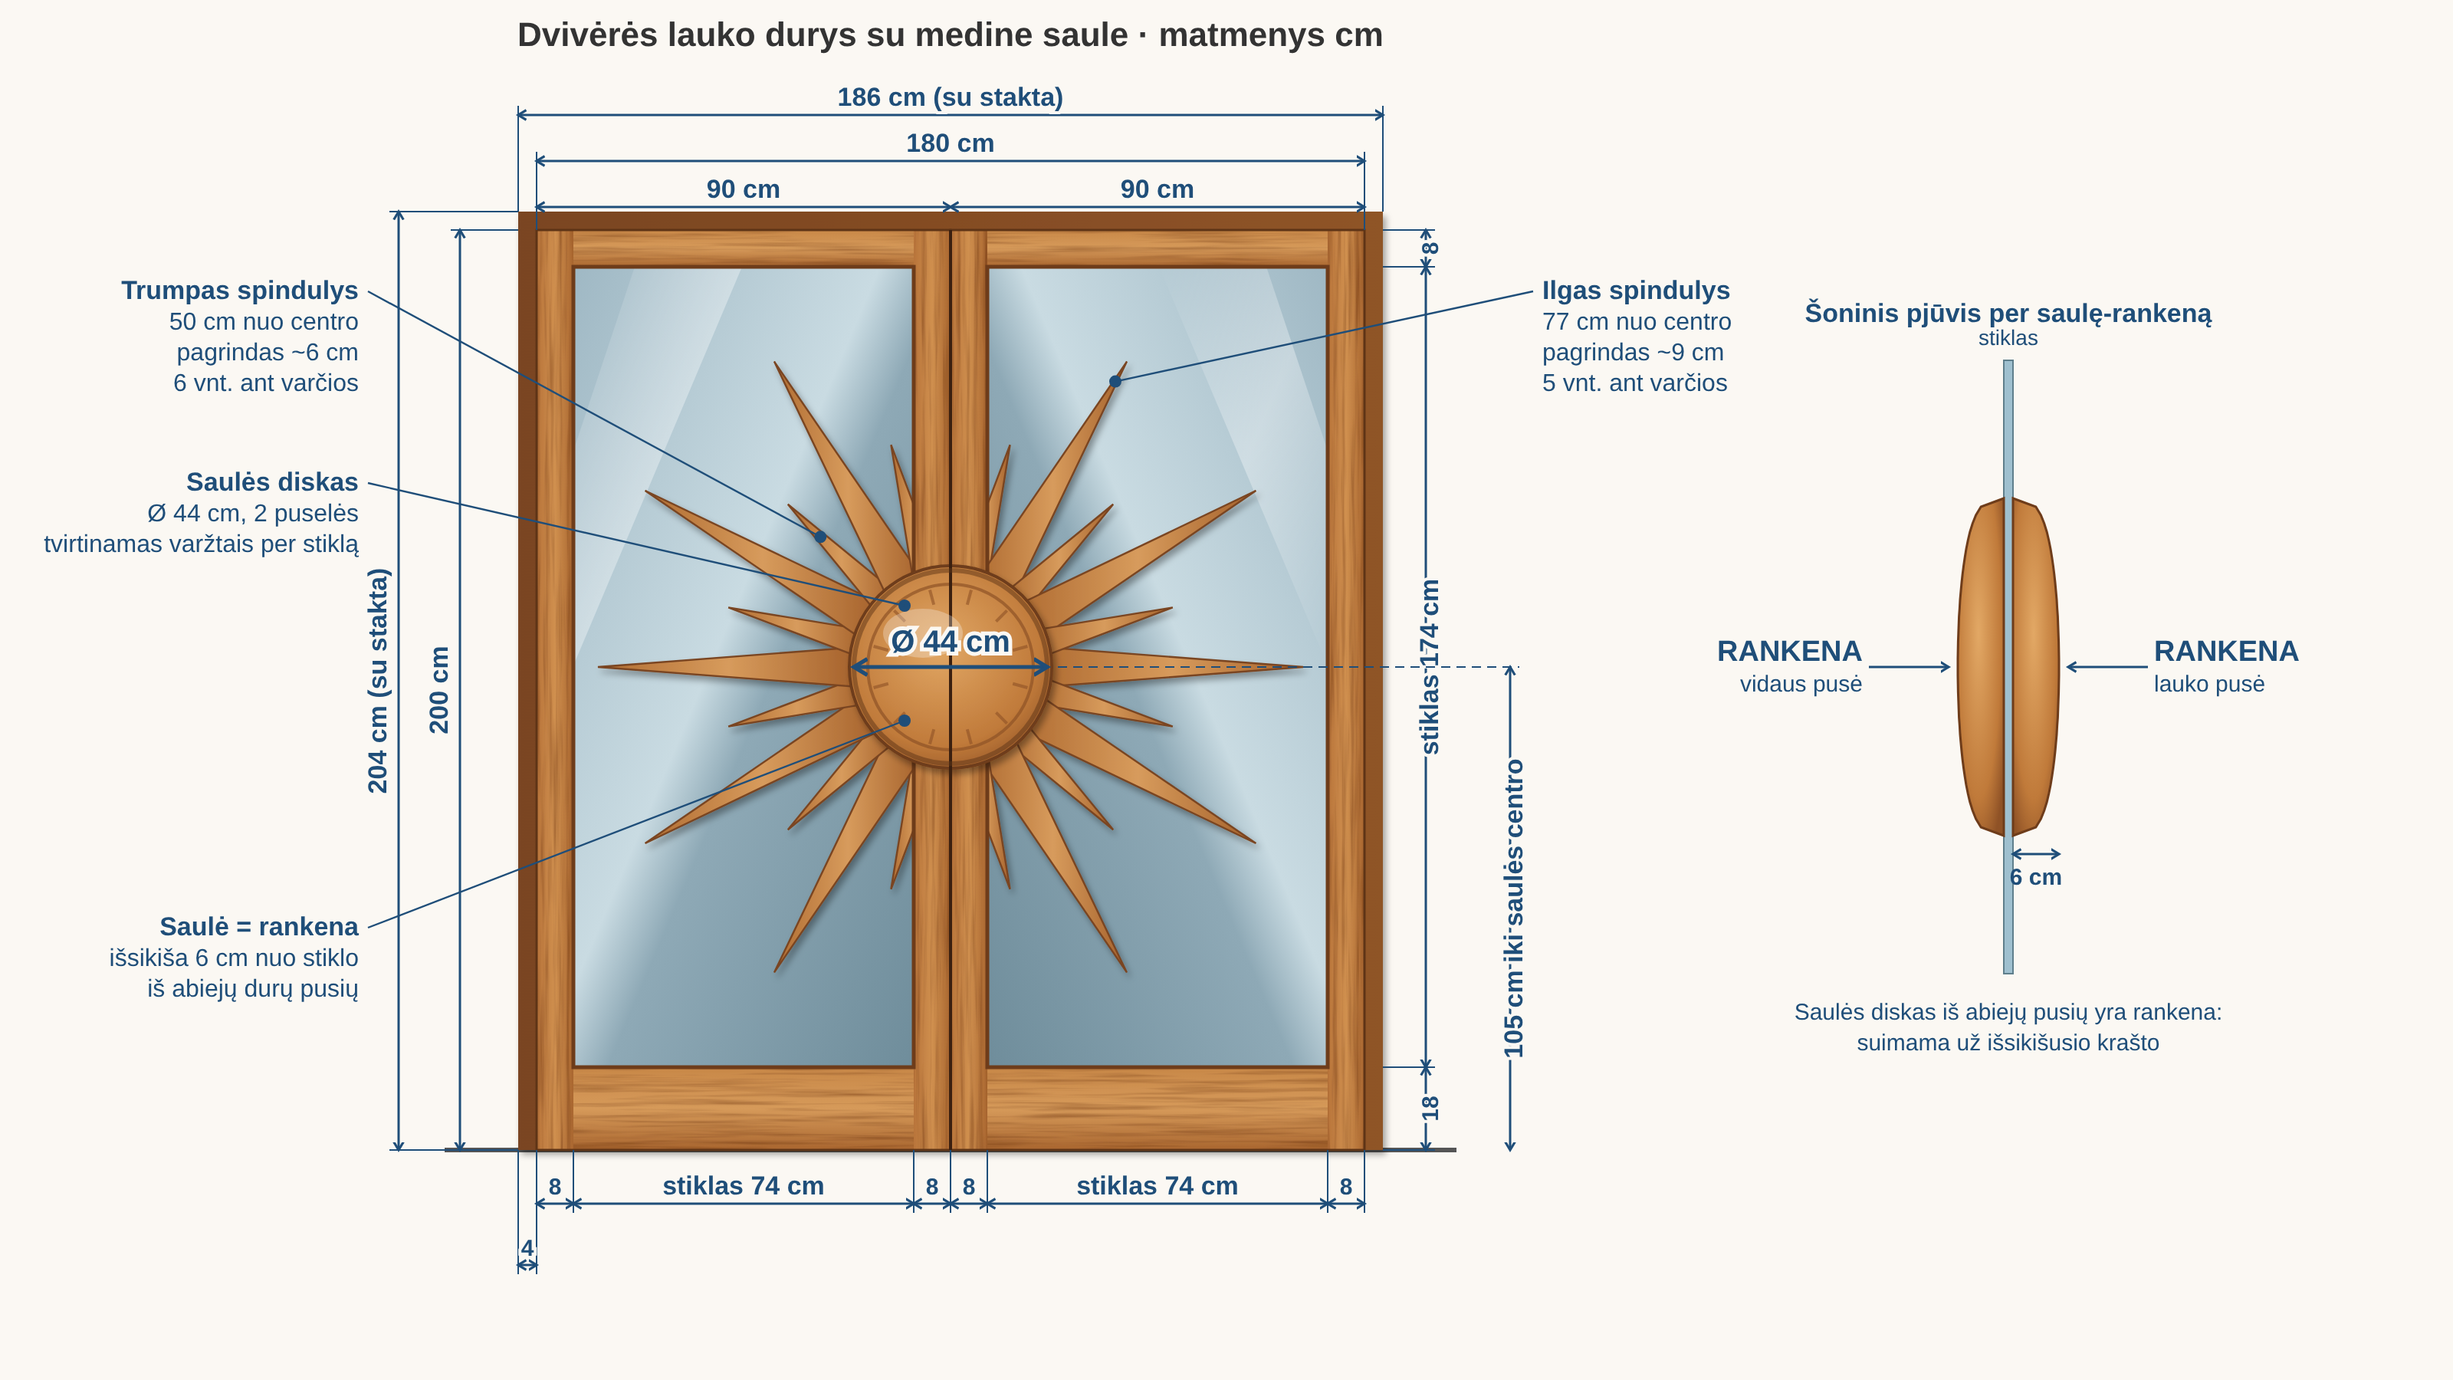
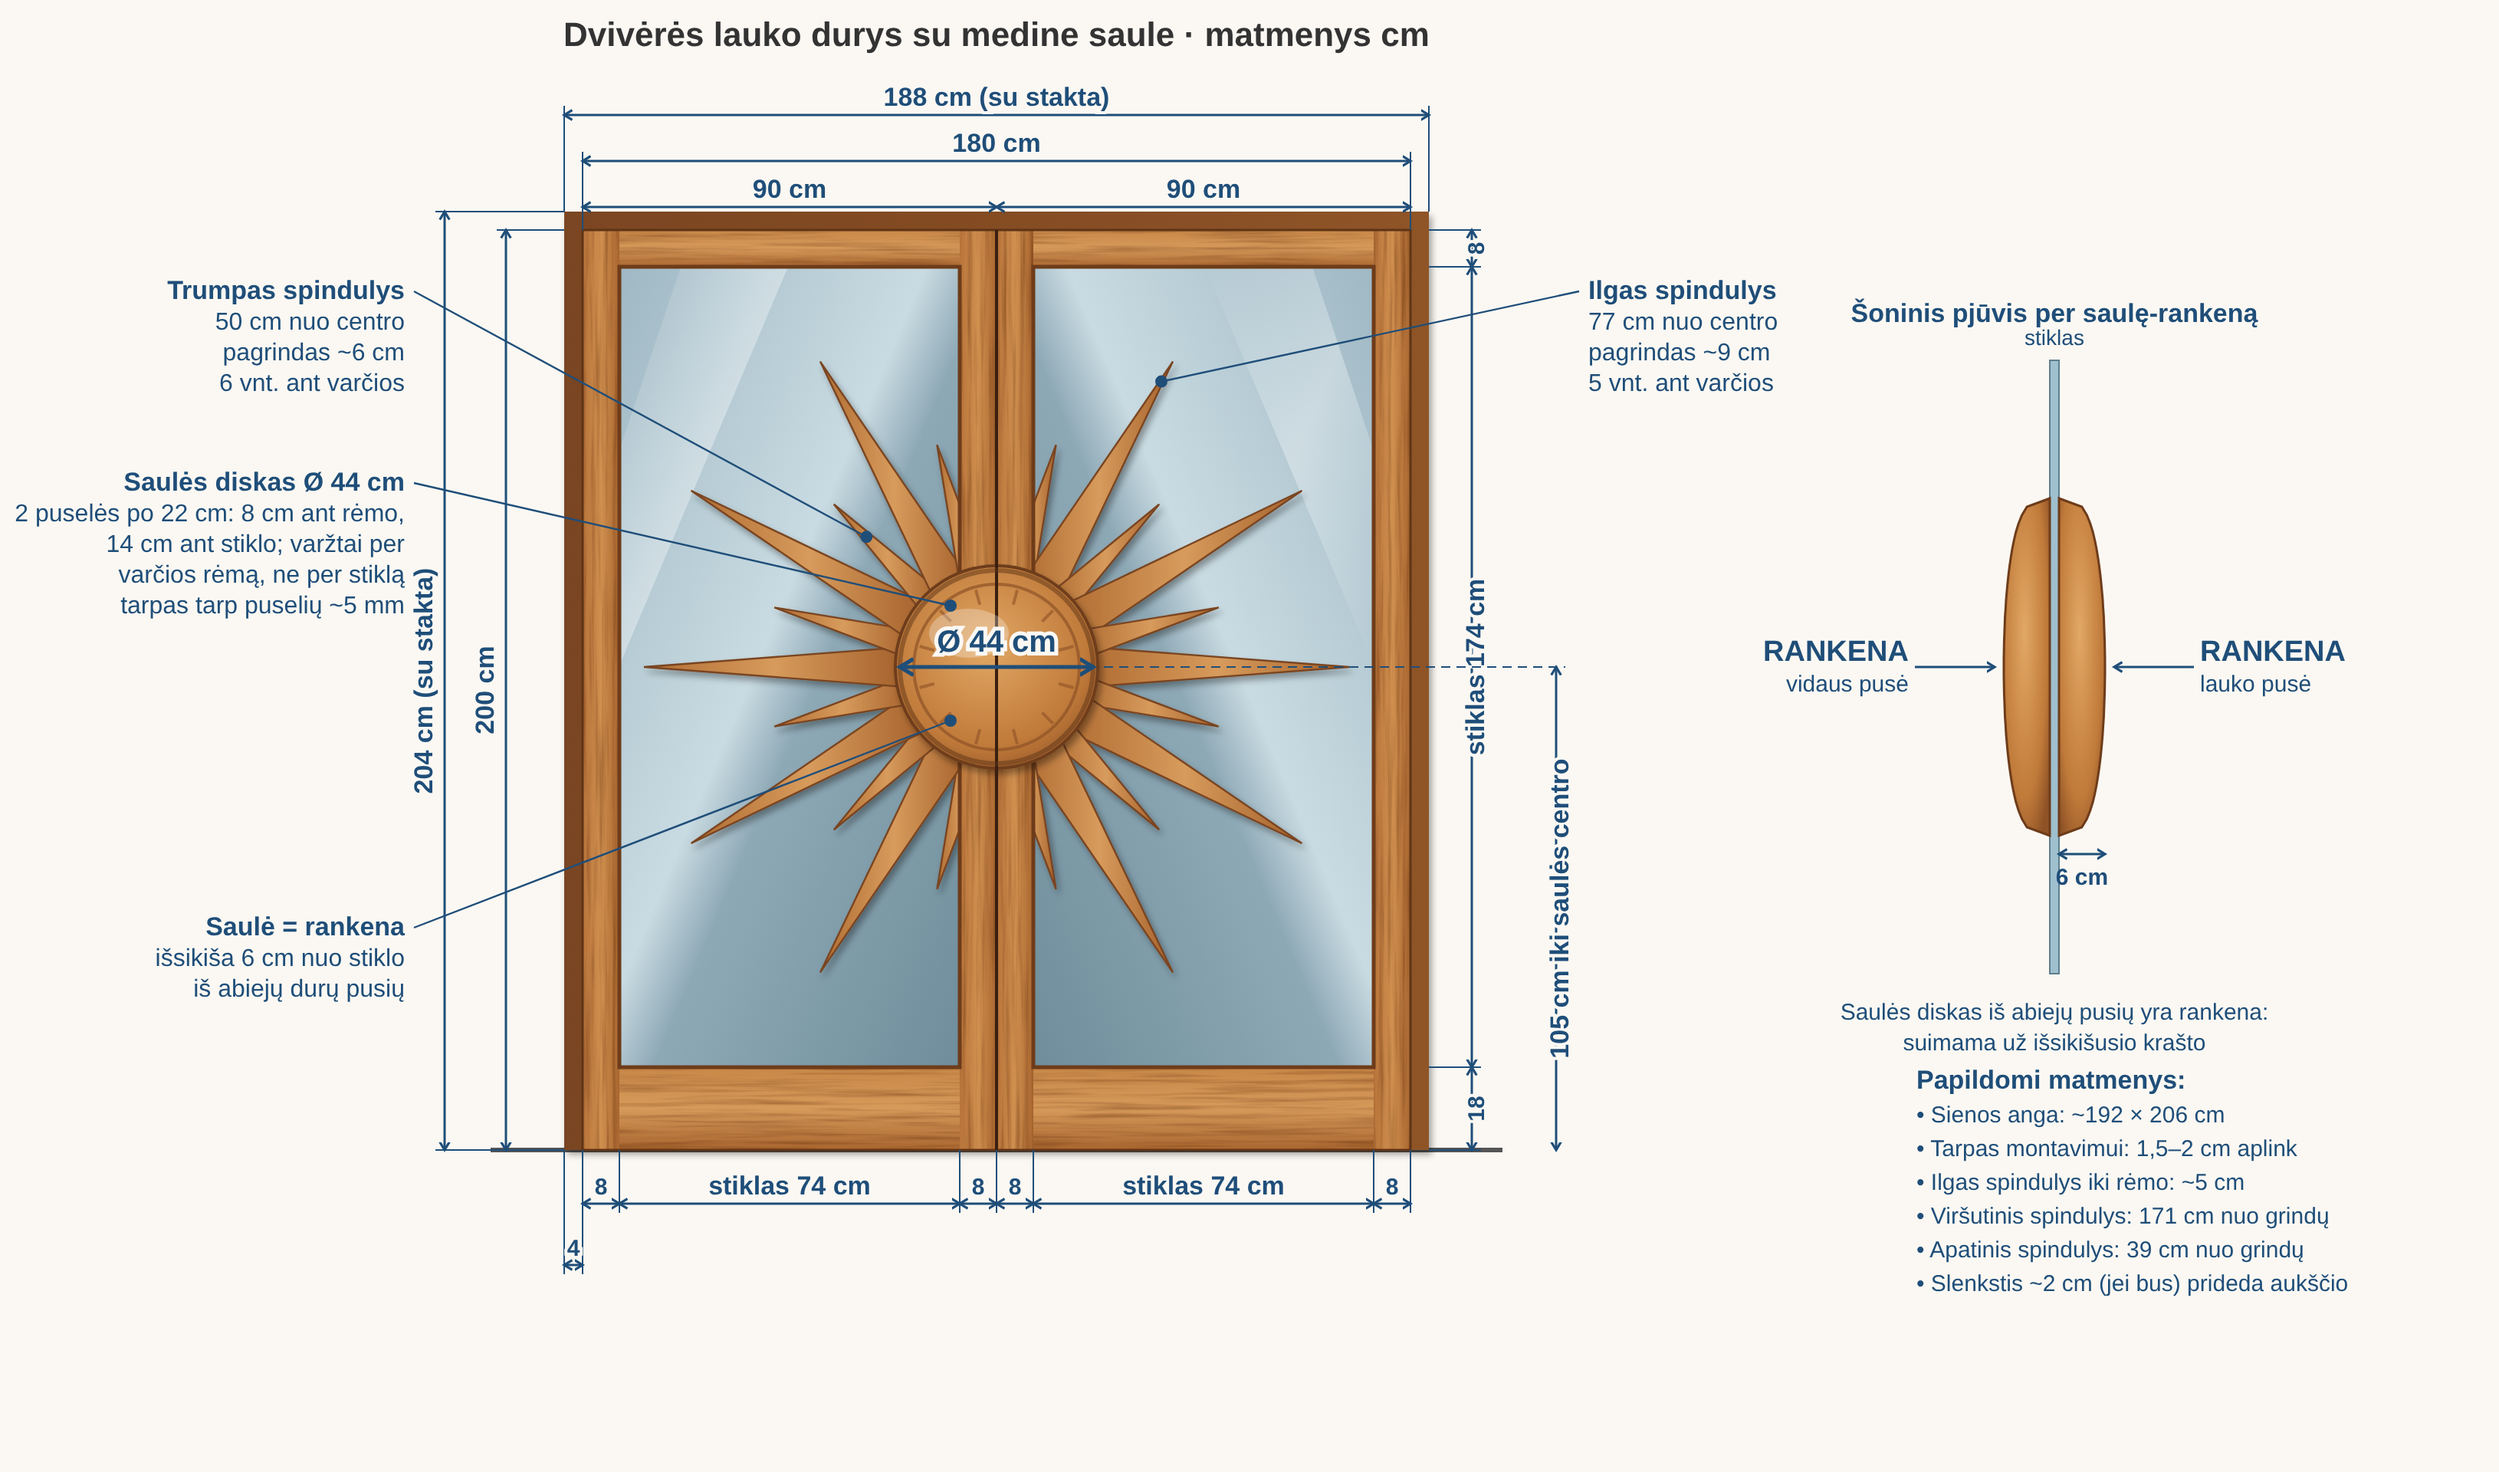
Patikrinti matmenys: stakta 188 cm, disko tvirtinimas per rėmą
Claude-Session: https://claude.ai/code/session_01NZt1Gnh6jbXepyZAwSUY5b

diff --git a/DURYS.md b/DURYS.md
@@ -3,7 +3,7 @@
 ## 1. Dvivėrės durys
 - Plotis 180 cm, aukštis 200 cm
 - Varčios: 2 × 90 cm (arba asimetriškos 60 + 120 cm)
-- Stakta: ~186–188 × 203–204 cm
+- Stakta: ~188 × 204 cm
 - Sienos anga: ~188–192 × 205–210 cm
 - Švarus praėjimas: ~170–174 cm
 
@@ -36,14 +36,18 @@ Pastaba: abiejų Skelbiu.lt pasiūlymų 95 × 205 cm durys mažesnės už planuo
 ## 4. Pasirinktas dizainas: dvivėrės durys su medine saule
 Brėžinys: `durys-brezinys.png`
 
-- Durys 180 × 200 cm (su 4 cm stakta: 186 × 204 cm)
+- Durys 180 × 200 cm (su 4 cm stakta: 188 × 204 cm)
+- Sienos anga: ~192 × 206 cm (1,5–2 cm tarpas montavimui); slenkstis ~2 cm, jei bus, prideda aukščio
 - 2 varčios po 90 cm
 - Rėmas: šonai 8 cm, viršus 8 cm, apačia 18 cm
 - Stiklas kiekvienoje varčioje: 74 × 174 cm
 - Saulė per vidurį, centras 105 cm nuo grindų (stiklo vidurys)
-- Saulės diskas Ø 44 cm, 2 puselės, tvirtinamas varžtais per stiklą; diskas = rankena
+- Saulės diskas Ø 44 cm, 2 puselės po 22 cm (8 cm ant varčios rėmo + 14 cm ant stiklo); diskas = rankena
+- Diskas tvirtinamas varžtais per varčios rėmą (vidaus ir lauko puselės suveržiamos kiaurai), ne per stiklo paketą
+- Tarpas tarp puselių ~5 mm, kraštai prie sandūros suapvalinti, kad varstant nesikabintų
 - Diskas išgaubtas, išsikiša 6 cm nuo stiklo iš abiejų durų pusių (vidus ir lauke); už jo krašto suimama kaip už rankenos, įdubų nėra
 - Ilgi spinduliai: 77 cm nuo centro, pagrindas ~9 cm, 5 vnt. ant varčios
 - Trumpi spinduliai: 50 cm nuo centro, pagrindas ~6 cm, 6 vnt. ant varčios
+- Ilgas spindulys iki rėmo ~5 cm; viršutinis spindulys 171 cm, apatinis 39 cm nuo grindų
 - Spinduliai klijuojami ant stiklo (UV klijai / struktūrinis silikonas)
 - Metalinių rankenų nėra; uždarytas laiko magnetinis / rutulinis fiksatorius, rakinti atskiru užraktu
